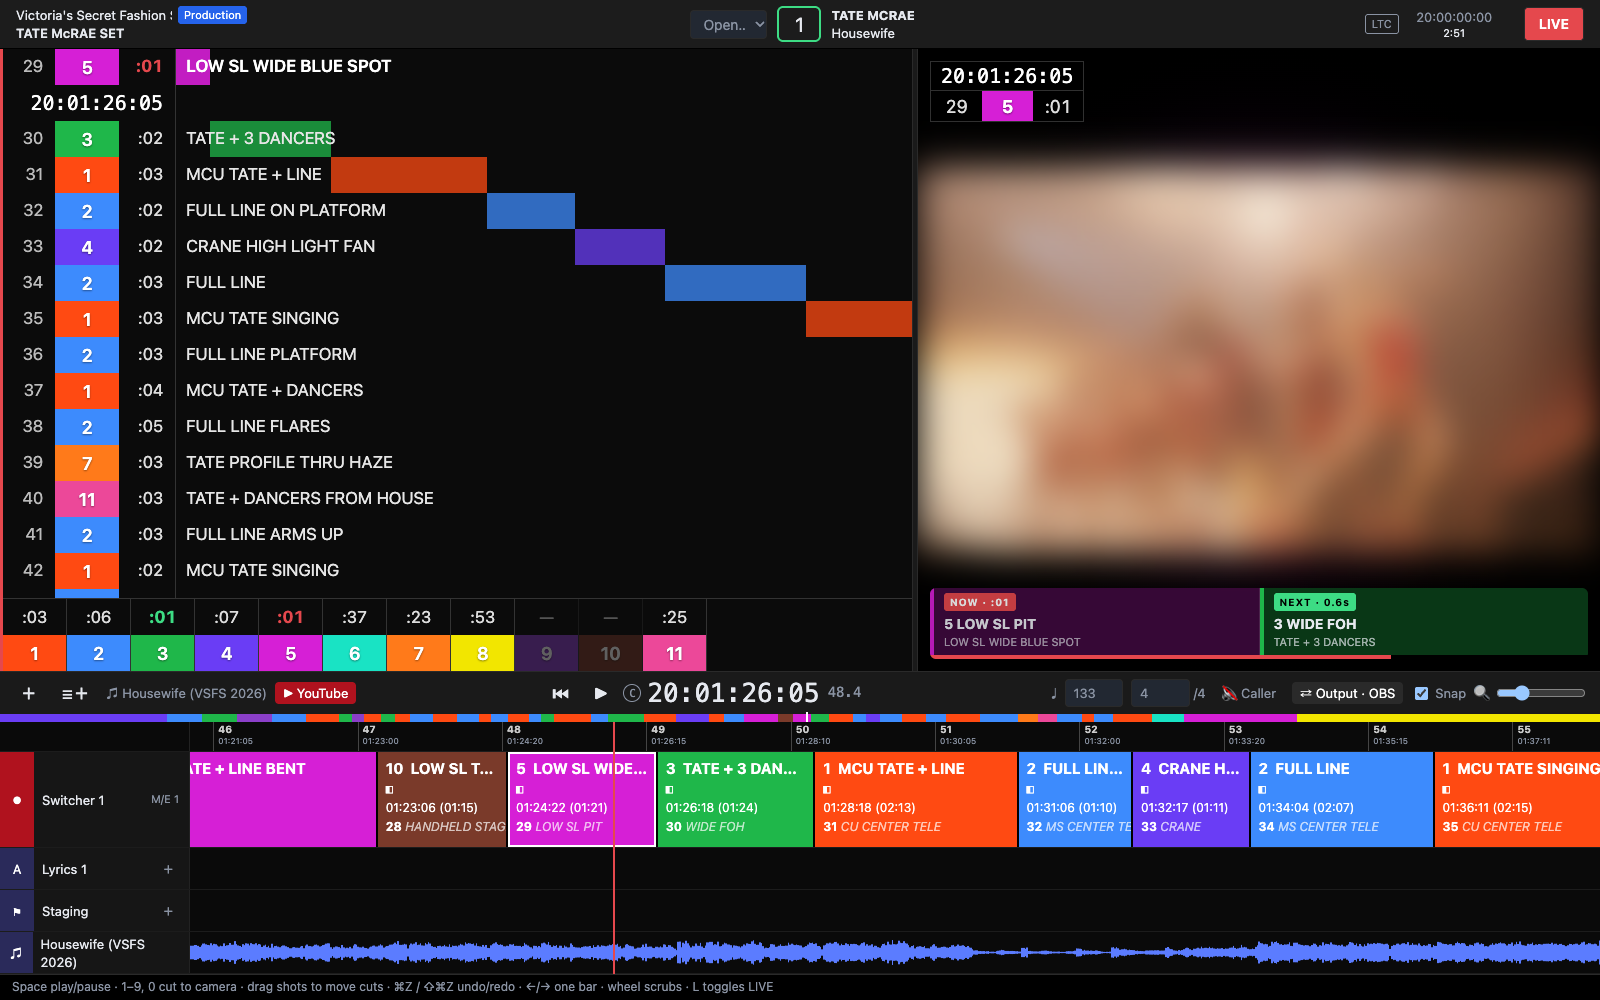
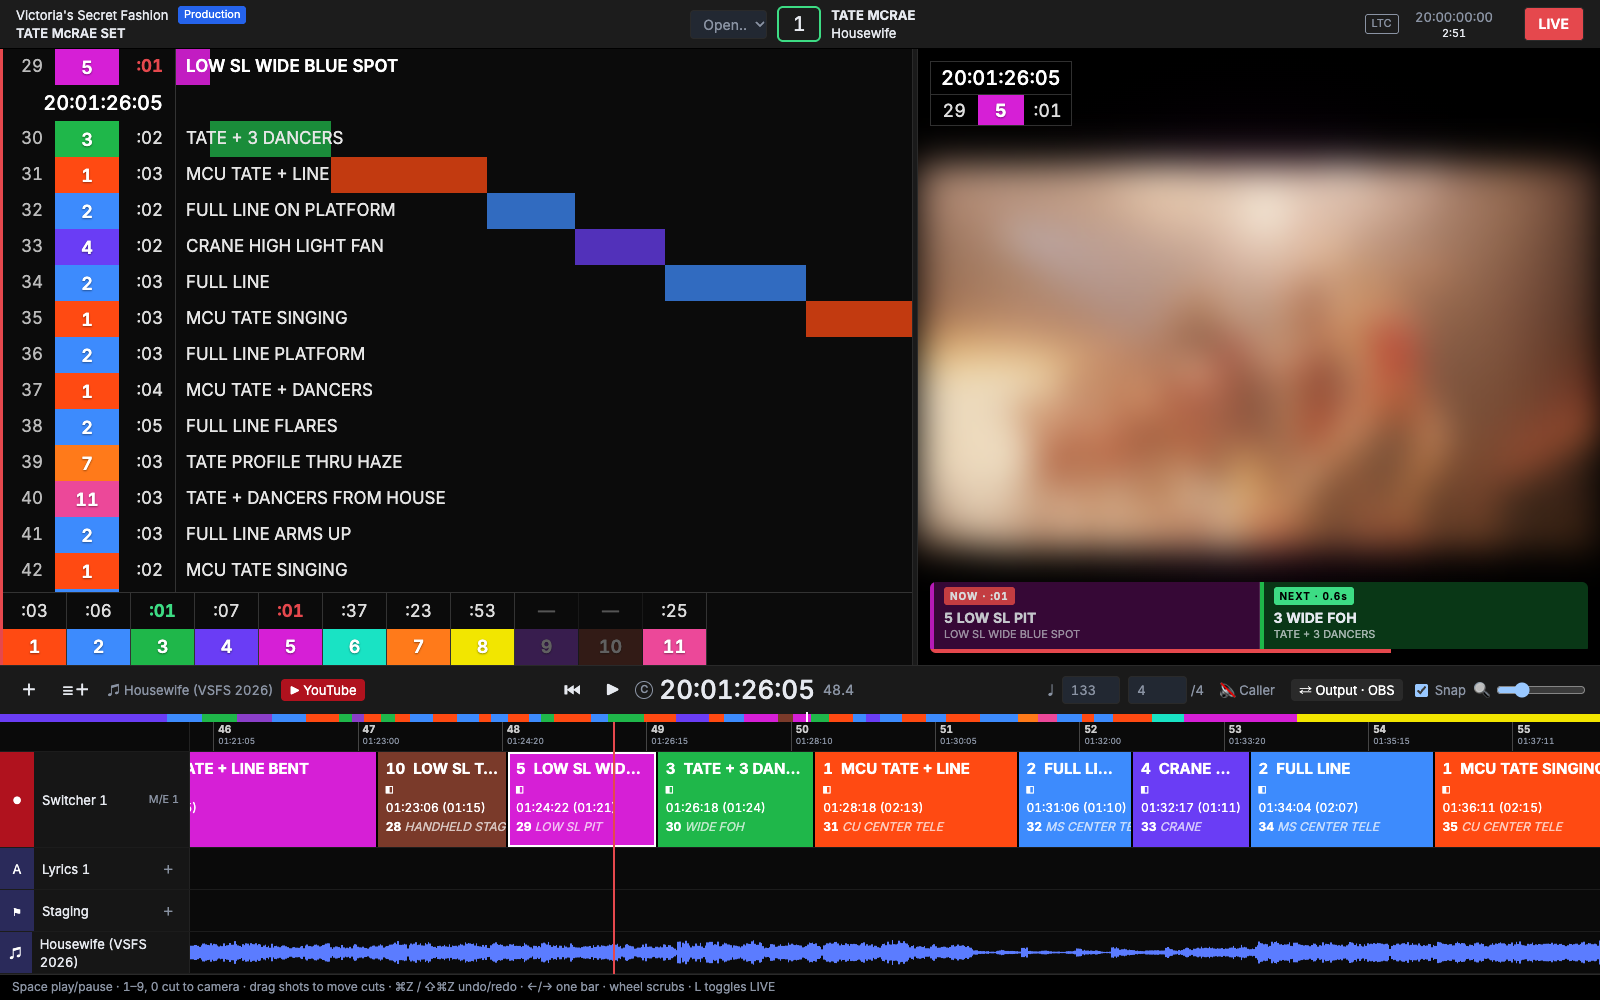
Inter font, operator countdown pips, red on-air frame, new screenshots
- bundle Inter (@fontsource-variable/inter) so offline venue devices get
  it; tabular digits app-wide, timecodes switch from monospace to Inter
- camera operator view: Web Audio pips (3-2-1 + long pip at the cut)
  instead of speech; red frame around the whole view while on air
- README screenshots retaken

diff --git a/src/CamView.vue b/src/CamView.vue
@@ -35,21 +35,36 @@ const timer = setInterval(() => (tick.value = performance.now()), 500)
 onUnmounted(() => clearInterval(timer))
 const connected = computed(() => tick.value - link.last < 1500)
 
-// optional spoken "3, 2, 1" before this camera's cuts; one voice, newest call wins
-const voice = ref(false)
+// optional countdown pips before this camera's cuts: short at 3, 2, 1, long at the cut
+const beeps = ref(false)
+let ctx = null
+function toggleBeeps() {
+  beeps.value = !beeps.value
+  // browsers only allow audio after a user gesture, so the context starts on this tap
+  if (beeps.value) (ctx ??= new AudioContext()).resume()
+}
+function pip(freq, ms) {
+  if (!ctx) return
+  const t = ctx.currentTime, end = t + ms / 1000, o = ctx.createOscillator(), g = ctx.createGain()
+  o.frequency.value = freq
+  g.gain.setValueAtTime(0.0001, t)
+  g.gain.exponentialRampToValueAtTime(0.5, t + 0.005) // short ramps avoid clicks
+  g.gain.setValueAtTime(0.5, end - 0.015)
+  g.gain.exponentialRampToValueAtTime(0.0001, end)
+  o.connect(g).connect(ctx.destination)
+  o.start(t); o.stop(end + 0.01)
+}
 let lastN = null
 watch(left, t => {
   const n = t == null ? null : Math.ceil(t)
-  if (voice.value && clock.playing && !onAir.value && n >= 1 && n <= 3 && n !== lastN) {
-    speechSynthesis.cancel()
-    speechSynthesis.speak(Object.assign(new SpeechSynthesisUtterance(String(n)), { rate: 1.2 }))
-  }
+  if (beeps.value && clock.playing && !onAir.value && n >= 1 && n <= 3 && n !== lastN) pip(1000, 90)
   lastN = n
 })
+watch(onAir, (on, was) => { if (on && !was && beeps.value && clock.playing) pip(1500, 400) })
 </script>
 
 <template>
-  <div class="cv">
+  <div class="cv" :class="{ onair: onAir }">
     <header>
       <span class="sno">{{ show.songNo }}</span>
       <div class="song"><b>{{ show.title }}</b><small>{{ show.artist }}</small></div>
@@ -66,7 +81,7 @@ watch(left, t => {
     </section>
 
     <div class="me" :class="{ onair: onAir, stby: standby }">
-      <button class="spk" :aria-pressed="voice" @click="voice = !voice" :title="voice ? 'Spoken countdown on' : 'Spoken countdown off'">{{ voice ? '🔊' : '🔈' }}</button>
+      <button class="spk" :aria-pressed="beeps" @click="toggleBeeps" :title="beeps ? 'Countdown pips on' : 'Countdown pips off'">{{ beeps ? '🔊' : '🔈' }}</button>
       <span class="mnum" :style="{ background: me.color }">{{ cam }}</span>
       <span class="count">{{ left == null ? '—' : Math.ceil(left) }}</span>
       <span class="track"><i :style="{ width: left == null ? 0 : pct(Math.min(left, WINDOW)) }"></i></span>
@@ -92,7 +107,9 @@ watch(left, t => {
 </template>
 
 <style scoped>
-.cv { height: 100%; display: flex; flex-direction: column; background: #000; color: #eee; user-select: none; }
+.cv { position: relative; height: 100%; display: flex; flex-direction: column; background: #000; color: #eee; user-select: none; }
+/* tally frame drawn on top of everything, so row backgrounds can't cover it */
+.cv.onair::after { content: ''; position: absolute; inset: 0; border: 6px solid #ff1a1a; pointer-events: none; z-index: 5; }
 header { display: flex; align-items: center; gap: 12px; padding: 8px 14px; background: #141414; flex: none; }
 .sno { font-size: 22px; color: #999; min-width: 28px; text-align: center; }
 .song { flex: 1; min-width: 0; display: flex; flex-direction: column; line-height: 1.2; }
@@ -130,5 +147,5 @@ footer { display: flex; align-items: center; gap: 12px; padding: 8px 14px; backg
 .time { font-size: 20px; font-weight: 600; font-variant-numeric: tabular-nums; }
 .prog { flex: 1; height: 6px; background: #333; position: relative; }
 .prog i { position: absolute; left: 0; top: 0; bottom: 0; background: #7fb2e5; }
-.tc { font: 13px ui-monospace, monospace; color: #999; }
+.tc { font-size: 13px; color: #999; }
 </style>

diff --git a/src/Rundown.vue b/src/Rundown.vue
@@ -245,8 +245,8 @@ aside { display: flex; flex-direction: column; background: #121212; border-right
 .row { display: flex; align-items: center; gap: 8px; }
 .card input, .card select { background: #0003; border: 1px solid #fff3; color: #fff; }
 .card .shotname { flex: 1; font-weight: 600; text-transform: uppercase; }
-.card .tc { width: 8.5em; font-family: ui-monospace, monospace; }
-.card .bb { width: 4.5em; font-family: ui-monospace, monospace; }
+.card .tc { width: 8.5em; }
+.card .bb { width: 4.5em; }
 .card i { opacity: .75; flex: 1; }
 .del { background: #0003; border-color: #fff3; color: #fff; }
 .grid { display: grid; grid-template-columns: repeat(5, 1fr); gap: 6px 8px; padding: 12px; border-top: 1px solid #222; }
@@ -274,7 +274,7 @@ aside { display: flex; flex-direction: column; background: #121212; border-right
 .pgm .lyric { margin-top: 16px; font-style: italic; opacity: .9; }
 .tag { position: absolute; top: 10px; left: 12px; font-size: 11px; font-weight: 700; letter-spacing: .1em; background: var(--red); padding: 2px 6px; border-radius: 3px; }
 .tcbox { position: absolute; left: 12px; top: 12px; z-index: 1; background: #000b; border: 1px solid #ffffff30; font-variant-numeric: tabular-nums; }
-.tcl { font: 20px ui-monospace, monospace; padding: 2px 10px; text-align: center; color: #fff; border-bottom: 1px solid #ffffff30; }
+.tcl { font-size: 20px; font-weight: 500; padding: 2px 10px; text-align: center; color: #fff; border-bottom: 1px solid #ffffff30; }
 .tcr { display: grid; grid-template-columns: 1fr 1fr 1fr; align-items: center; text-align: center; font-size: 18px; height: 30px; }
 .tcr span { color: #ddd; }
 .tcr b { height: 100%; display: grid; place-items: center; color: #fff; text-shadow: 0 1px 2px #0006; }
@@ -293,9 +293,9 @@ aside { display: flex; flex-direction: column; background: #121212; border-right
 .toolbar label { font-size: 13px; }
 .toolbar input[type=range] { width: 90px; padding: 0; }
 .spacer { flex: 1; }
-.bigtc { font: 26px ui-monospace, monospace; display: flex; align-items: center; gap: 6px; }
+.bigtc { font-size: 26px; font-weight: 500; display: flex; align-items: center; gap: 6px; }
 .bigtc small { font-size: 11px; border: 1px solid var(--dim); border-radius: 50%; width: 18px; height: 18px; display: grid; place-items: center; color: var(--dim); }
-.bbr { font-family: ui-monospace, monospace; color: var(--dim); }
+.bbr { color: var(--dim); }
 .overview { grid-column: 1 / -1; position: relative; height: 8px; background: #111; cursor: pointer; }
 .overview div { position: absolute; top: 0; bottom: 0; }
 .overview i { position: absolute; top: -2px; bottom: -2px; width: 2px; background: #fff; }

diff --git a/src/App.vue b/src/App.vue
@@ -65,7 +65,7 @@ onUnmounted(() => removeEventListener('keydown', onKey))
 :root { --bg: #000; --panel: #141414; --line: #2a2a2a; --text: #e6e9ef; --dim: #8a93a3; --red: #e5484d; color-scheme: dark; }
 * { box-sizing: border-box; }
 html, body, #app { margin: 0; height: 100%; }
-body { background: var(--bg); color: var(--text); font: 14px/1.4 system-ui, sans-serif; }
+body { background: var(--bg); color: var(--text); font: 14px/1.4 'Inter Variable', Inter, system-ui, sans-serif; font-variant-numeric: tabular-nums; }
 #app { display: flex; flex-direction: column; }
 header { display: flex; align-items: center; gap: 24px; padding: 6px 16px; background: #1c1c1c; border-bottom: 1px solid #000; }
 header input { background: none; border: 0; padding: 0; }

diff --git a/src/Live.vue b/src/Live.vue
@@ -67,5 +67,5 @@ const bar = c => ({ left: pct(Math.max(0, c.start - clock.now)), width: pct(c.en
 .tile.next b { color: #3ddc84; font-weight: 700; }
 .tile.done { opacity: .35; }
 .now { grid-template-columns: 172px 1fr; }
-.now .tc { text-align: right; padding-right: 12px; font: 20px ui-monospace, monospace; color: #fff; }
+.now .tc { text-align: right; padding-right: 12px; font-size: 20px; font-weight: 500; color: #fff; }
 </style>

diff --git a/src/main.js b/src/main.js
@@ -1,3 +1,4 @@
 import { createApp } from 'vue'
+import '@fontsource-variable/inter' // bundled, so venue machines without internet get it too
 import App from './App.vue'
 createApp(App).mount('#app')
